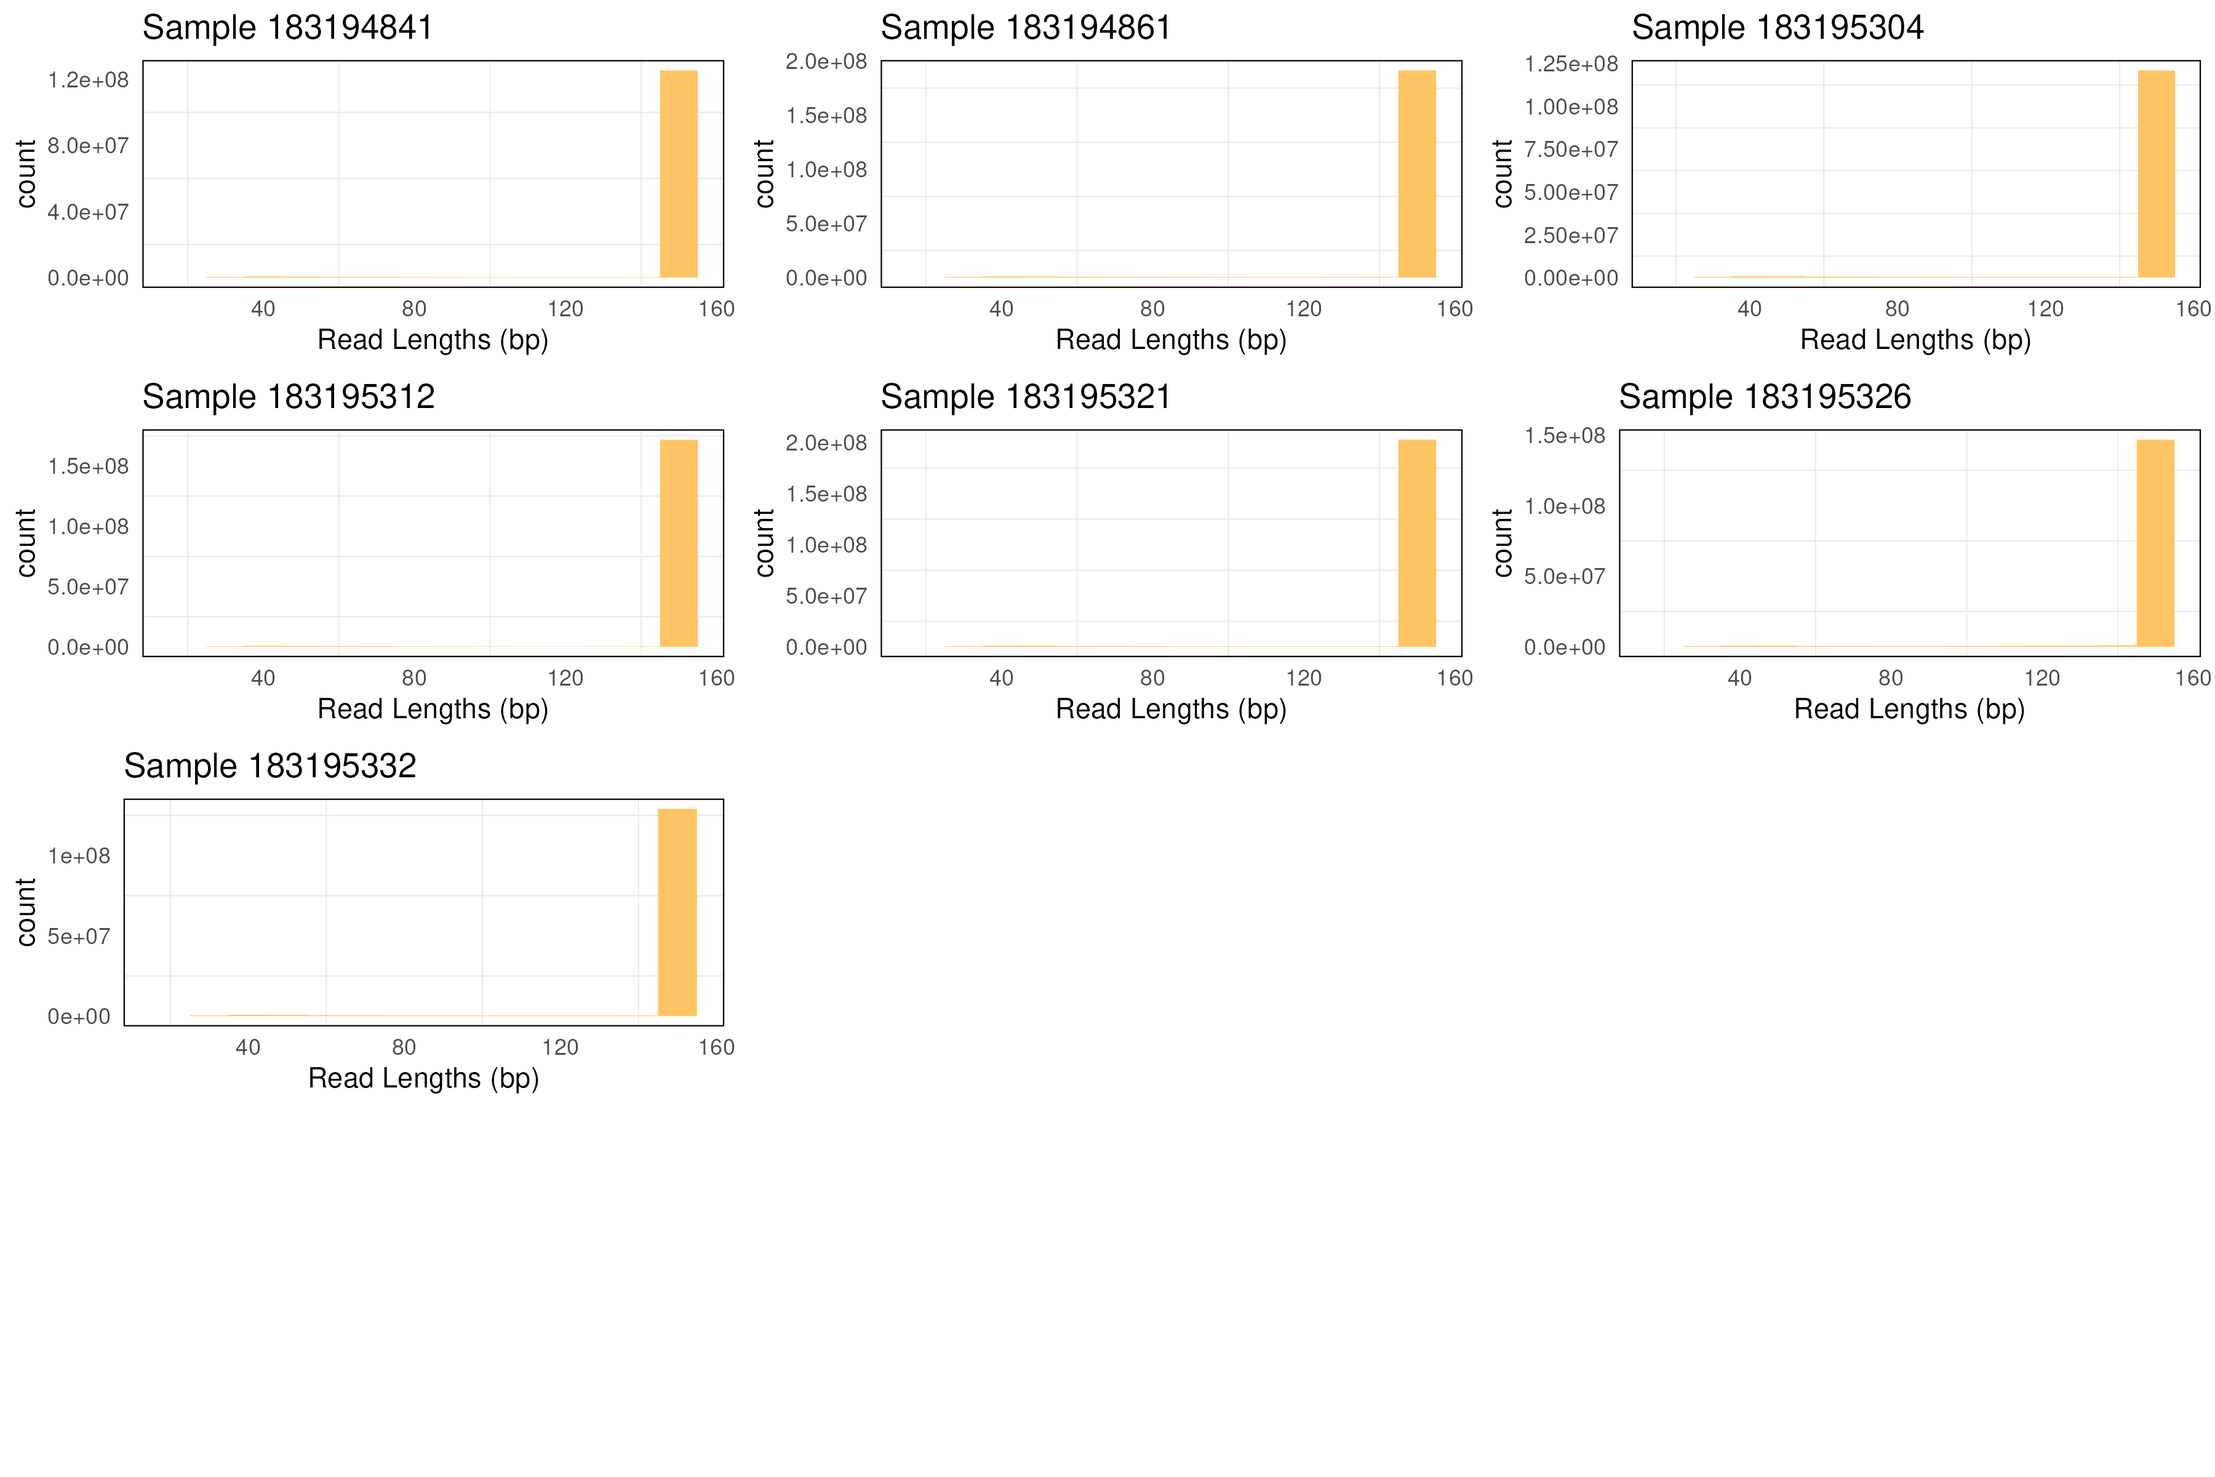
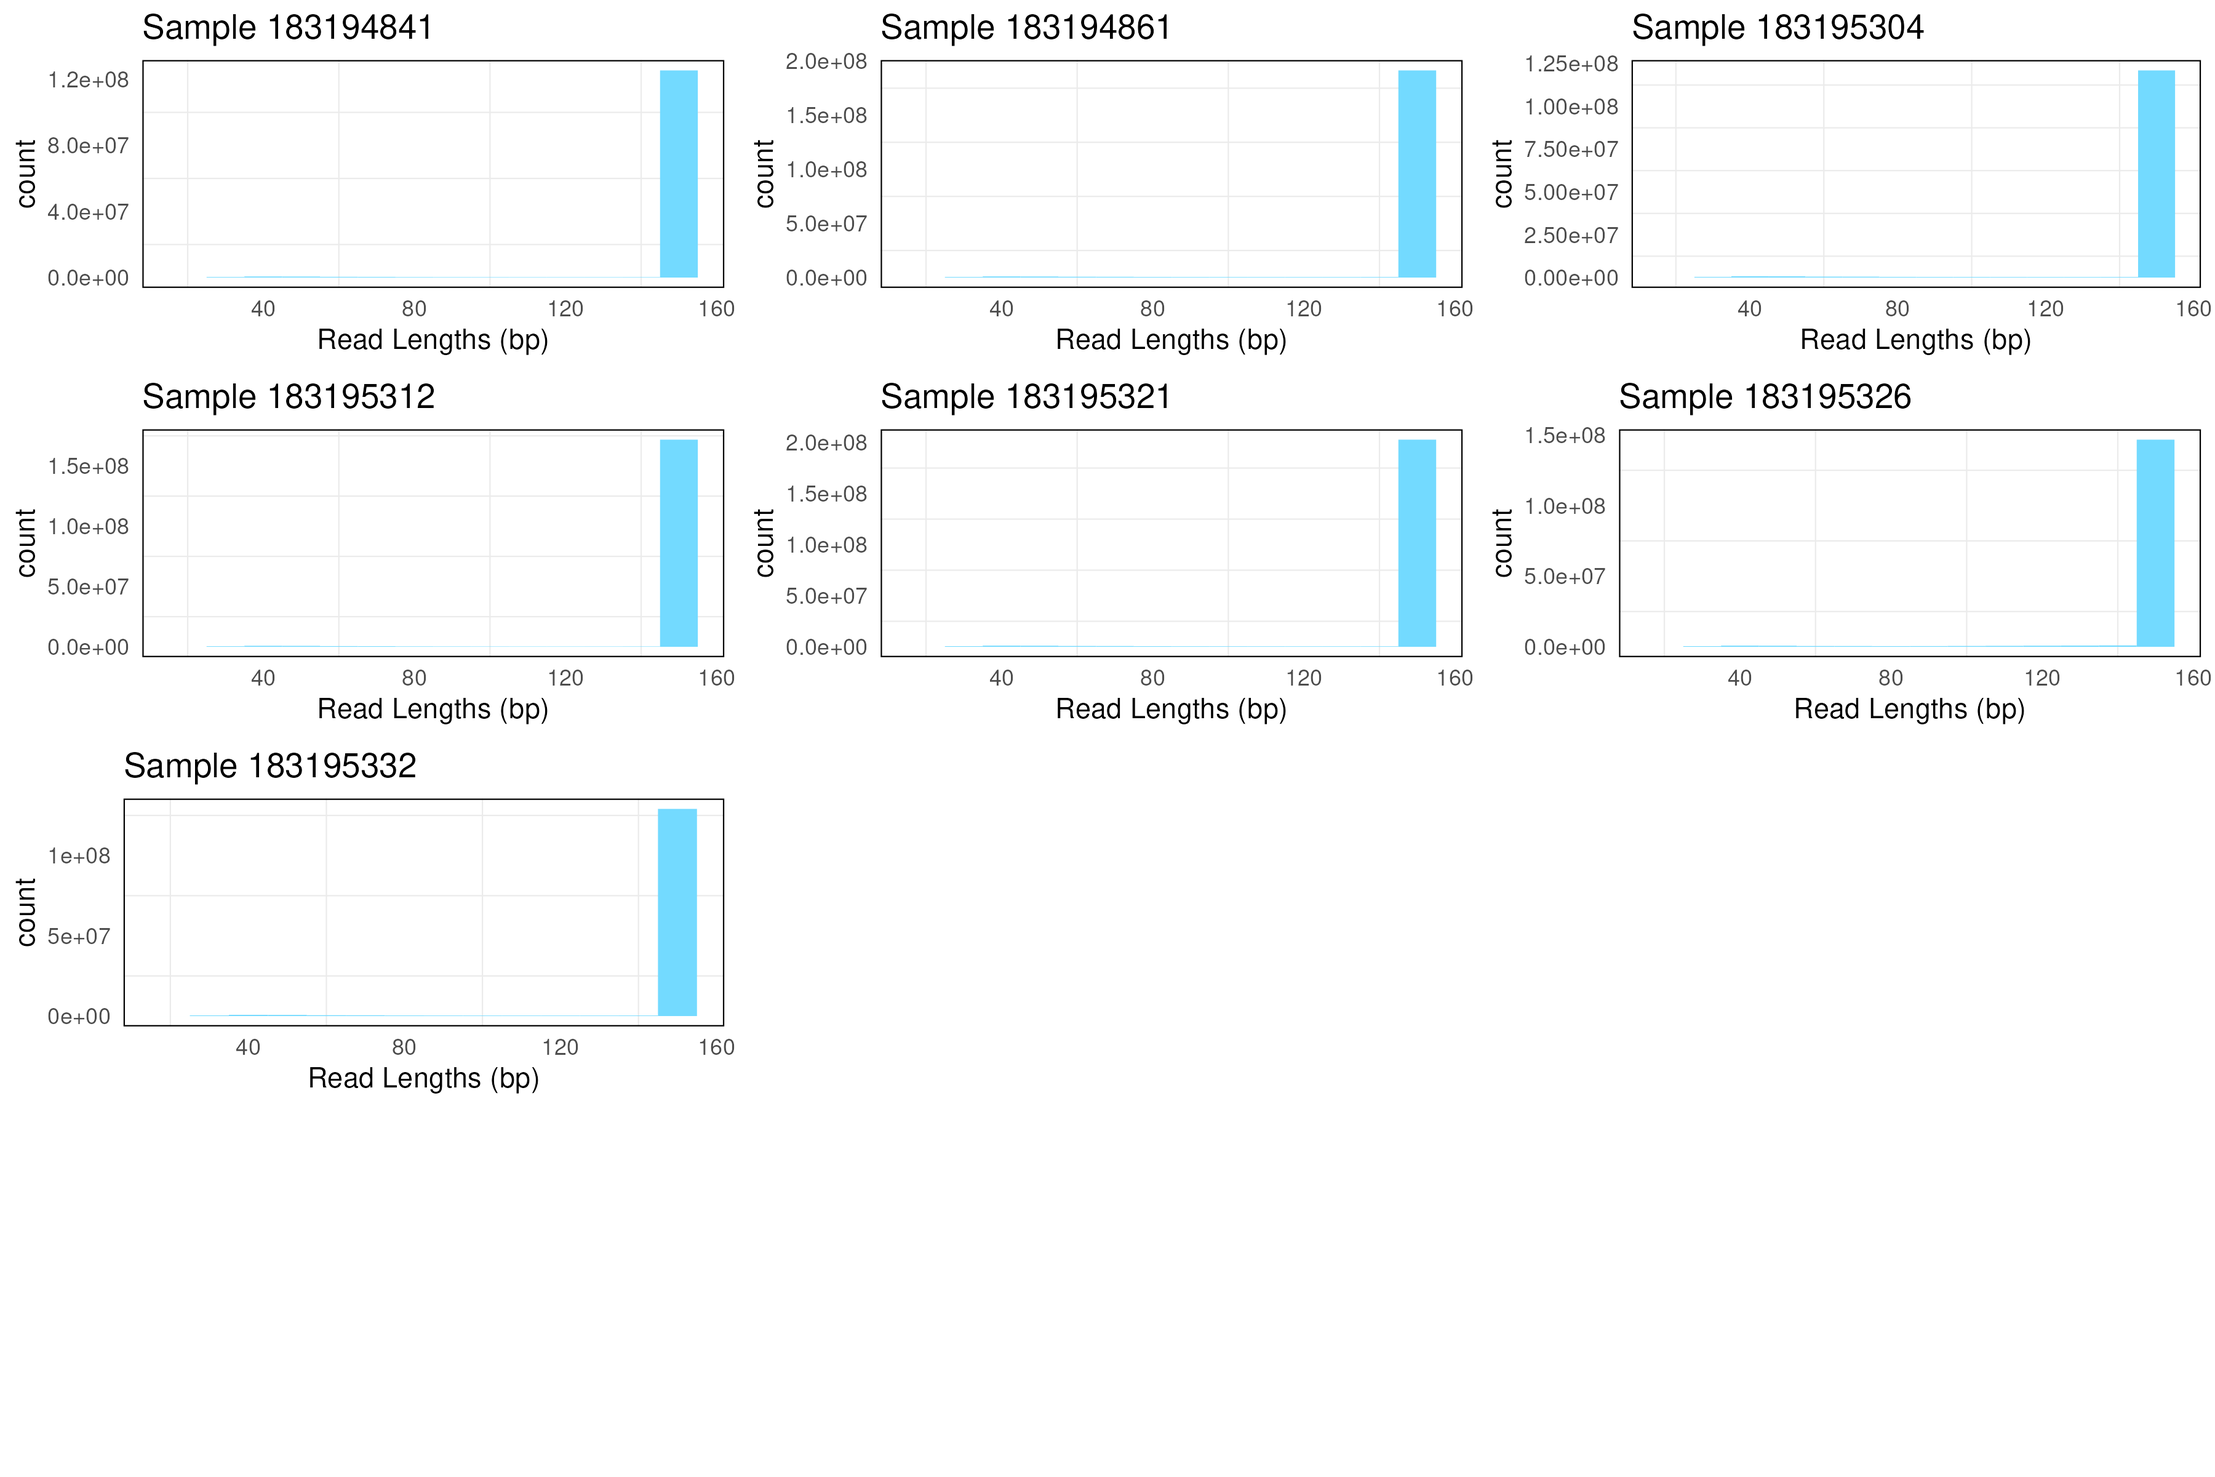
NA

diff --git a/scripts/demographic_modelling/gone/2_obtain_vcf.md b/scripts/demographic_modelling/gone/2_obtain_vcf.md
@@ -19,7 +19,7 @@ for i in `cat $scripts_folder/cKIWA_IDS.txt`; do
 #SBATCH --nodes=1
 #SBATCH --ntasks=1
 #SBATCH --cpus-per-task=4
-#SBATCH --mem=20GB
+#SBATCH --mem=100GB
 #SBATCH --time=12:00:00
 #SBATCH --account=open
 #SBATCH --job-name=hofi_alignments_${i}
@@ -49,7 +49,7 @@ vcf="/storage/home/abc6435/SzpiechLab/abc6435/KROH/data/gone/vcf_kirt/kirtlandii
 #samtools sort \$work_dir/${i}.bam -T \$work_dir/${i}_temp.bam -o \$work_dir/${i}_sorted.bam
 
 #Mark Duplicates
-java -Xmx20g -jar \$picard_tools_folder/picard.jar MarkDuplicates INPUT=\$work_dir/${i}_sorted.bam OUTPUT=\$work_dir/${i}_marked.bam METRICS_FILE=\$work_dir/${i}_metrics.txt MAX_FILE_HANDLES_FOR_READ_ENDS_MAP=8000
+java -Xmx100g -jar \$picard_tools_folder/picard.jar MarkDuplicates INPUT=\$work_dir/${i}_sorted.bam OUTPUT=\$work_dir/${i}_marked.bam METRICS_FILE=\$work_dir/${i}_metrics.txt MAX_FILE_HANDLES_FOR_READ_ENDS_MAP=8000
 
 #Index BAM Files
 samtools index \$work_dir/${i}_marked.bam \$work_dir/${i}_marked.bai
@@ -68,7 +68,7 @@ nano $scripts_folder/call_variants_gone.bash
 #SBATCH --nodes=1
 #SBATCH --ntasks=1
 #SBATCH --cpus-per-task=4
-#SBATCH --mem=10GB
+#SBATCH --mem=20GB
 #SBATCH --time=11:00:00
 #SBATCH --account=open
 #SBATCH --job-name=call_variants_gone
@@ -76,29 +76,24 @@ nano $scripts_folder/call_variants_gone.bash
 #SBATCH --output=/storage/home/abc6435/SzpiechLab/abc6435/KROH/job_err_output/%x.%j.out
 
 #Set Variables
-hofi_folder="/storage/home/abc6435/SzpiechLab/abc6435/KROH/data/hofi_ref"
+ref="/storage/home/abc6435/SzpiechLab/abc6435/KROH/data/hofi_ref/hofigenome.fna"
 work_dir="/storage/home/abc6435/SzpiechLab/abc6435/KROH/data/gone/vcf_kirt"
 vcf="/storage/home/abc6435/SzpiechLab/abc6435/KROH/data/gone/vcf_kirt/kirtlandii"
+bam_list="183194841_marked.bam 183194861_marked.bam 183195304_marked.bam 183195312_marked.bam 183195321_marked.bam 183195326_marked.bam 183195332_marked.bam"
 
 #Call Variants
-samtools mpileup -f \$hofi_folder/hofigenome.fna \$work_dir/*_marked.bam  | bcftools call -mv -Oz -o \$work_dir/kirtlandii.vcf.gz
+samtools mpileup -f $ref $bam_list > $work_dir/kirtlandii.mpileup
+bcftools call -mv --ploidy 2 -Oz -o $work_dir/kirtlandii.vcf.gz $work_dir/kirtlandii.mpileup
 
 #Filter Variants
-bcftools view -m2 -M2 -v snps \$vcf.vcf.gz -Oz -o \$vcf.biallelic.vcf.gz
-
-bcftools view -i 'QUAL>=50' \$vcf.biallelic.vcf.gz -Oz -o \$vcf.biallelic.qual.vcf.gz
-
-bcftools view -e 'SUM(FMT/DP)<95 | SUM(FMT/DP)>185' \$vcf.biallelic.qual.vcf.gz -Oz -o \$vcf.biallelic.qual.dpsites.vcf.gz
-
-bcftools filter \$vcf.biallelic.qual.dpsites.vcf.gz -e 'FMT/DP<6' -S . -Oz -o \$vcf.biallelic.qual.dpsites.dpgt.vcf.gz
-
-bcftools filter \$vcf.biallelic.qual.dpsites.dpgt.vcf.gz -e 'FMT/GQ<20' -S . -Oz -o \$vcf.biallelic.qual.dpsites.dpgt.gq.vcf.gz
-
-bcftools view -e 'GT="./."' \$vcf.biallelic.qual.dpsites.dpgt.gq.vcf.gz -Oz -o \$vcf.biallelic.qual.dpsites.dpgt.gq.nmiss.vcf.gz
-
-bcftools view -e 'COUNT(GT="het")>=6' \$vcf.biallelic.qual.dpsites.dpgt.gq.nmiss.vcf.gz -Oz -o \$vcf.biallelic.qual.dpsites.dpgt.gq.nmiss.exhet.vcf.gz
-
-bcftools index \$vcf.biallelic.qual.dpsites.dpgt.gq.nmiss.exhet.vcf.gz
+bcftools view -m2 -M2 -v snps $vcf.vcf.gz -Oz -o $vcf.biallelic.vcf.gz
+bcftools view -i 'QUAL>=50' $vcf.biallelic.vcf.gz -Oz -o $vcf.biallelic.qual.vcf.gz
+bcftools view -e 'SUM(FMT/DP)<95 | SUM(FMT/DP)>185' $vcf.biallelic.qual.vcf.gz -Oz -o $vcf.biallelic.qual.dpsites.vcf.gz
+bcftools filter $vcf.biallelic.qual.dpsites.vcf.gz -e 'FMT/DP<6' -S . -Oz -o $vcf.biallelic.qual.dpsites.dpgt.vcf.gz
+bcftools filter $vcf.biallelic.qual.dpsites.dpgt.vcf.gz -e 'FMT/GQ<20' -S . -Oz -o $vcf.biallelic.qual.dpsites.dpgt.gq.vcf.gz
+bcftools view -e 'GT="./."' $vcf.biallelic.qual.dpsites.dpgt.gq.vcf.gz -Oz -o $vcf.biallelic.qual.dpsites.dpgt.gq.nmiss.vcf.gz
+bcftools view -e 'COUNT(GT="het")>=6' $vcf.biallelic.qual.dpsites.dpgt.gq.nmiss.vcf.gz -Oz -o \$vcf.biallelic.qual.dpsites.dpgt.gq.nmiss.exhet.vcf.gz
+bcftools index $vcf.biallelic.qual.dpsites.dpgt.gq.nmiss.exhet.vcf.gz
 ```
 
 ## Clean VCF 

diff --git a/scripts/plot/depth_h.md b/scripts/plot/depth_h.md
@@ -52,7 +52,7 @@ chr_order <- c("chr1","chr1a","chr2","chr3","chr4","chr4a","chr5","chr6","chr7",
 
 avg_depth_29779$CHR <- factor(avg_depth_29779$CHR, levels = chr_order)
 DP_29779 <-  ggplot(avg_depth_29779, aes(x = CHR, y = DEPTH)) +
-  geom_bar(stat = "identity", fill = "#008182") +
+  geom_bar(stat = "identity", fill = "#AF2C8B") +
   labs(x = "",
        y = "Average Depth") +
  ggtitle(paste("Sample 29779")) + 
@@ -68,7 +68,7 @@ DP_29779 <-  ggplot(avg_depth_29779, aes(x = CHR, y = DEPTH)) +
 
 avg_depth_383194$CHR <- factor(avg_depth_383194$CHR, levels = chr_order)
 DP_383194 <-  ggplot(avg_depth_383194, aes(x = CHR, y = DEPTH)) +
-  geom_bar(stat = "identity", fill = "#008182") +
+  geom_bar(stat = "identity", fill = "#AF2C8B") +
   labs(x = "",
        y = "Average Depth") +
  ggtitle(paste("Sample 383194")) + 
@@ -84,7 +84,7 @@ DP_383194 <-  ggplot(avg_depth_383194, aes(x = CHR, y = DEPTH)) +
 
 avg_depth_383202$CHR <- factor(avg_depth_383202$CHR, levels = chr_order)
 DP_383202 <-  ggplot(avg_depth_383202, aes(x = CHR, y = DEPTH)) +
-  geom_bar(stat = "identity", fill = "#008182") +
+  geom_bar(stat = "identity", fill = "#AF2C8B") +
   labs(x = "",
        y = "Average Depth") +
  ggtitle(paste("Sample 383202")) + 
@@ -100,7 +100,7 @@ DP_383202 <-  ggplot(avg_depth_383202, aes(x = CHR, y = DEPTH)) +
 
 avg_depth_383205$CHR <- factor(avg_depth_383205$CHR, levels = chr_order)
 DP_383205 <-  ggplot(avg_depth_383205, aes(x = CHR, y = DEPTH)) +
-  geom_bar(stat = "identity", fill = "#008182") +
+  geom_bar(stat = "identity", fill = "#AF2C8B") +
   labs(x = "",
        y = "Average Depth") +
  ggtitle(paste("Sample 383205")) + 
@@ -116,7 +116,7 @@ DP_383205 <-  ggplot(avg_depth_383205, aes(x = CHR, y = DEPTH)) +
 
 avg_depth_507264$CHR <- factor(avg_depth_507264$CHR, levels = chr_order)
 DP_507264 <-  ggplot(avg_depth_507264, aes(x = CHR, y = DEPTH)) +
-  geom_bar(stat = "identity", fill = "#008182") +
+  geom_bar(stat = "identity", fill = "#AF2C8B") +
   labs(x = "",
        y = "Average Depth") +
  ggtitle(paste("Sample 507264")) + 
@@ -132,7 +132,7 @@ DP_507264 <-  ggplot(avg_depth_507264, aes(x = CHR, y = DEPTH)) +
 
 avg_depth_507265$CHR <- factor(avg_depth_507265$CHR, levels = chr_order)
 DP_507265 <-  ggplot(avg_depth_507265, aes(x = CHR, y = DEPTH)) +
-  geom_bar(stat = "identity", fill = "#008182") +
+  geom_bar(stat = "identity", fill = "#AF2C8B") +
   labs(x = "",
        y = "Average Depth") +
  ggtitle(paste("Sample 507265")) + 
@@ -148,7 +148,7 @@ DP_507265 <-  ggplot(avg_depth_507265, aes(x = CHR, y = DEPTH)) +
 
 avg_depth_759877$CHR <- factor(avg_depth_759877$CHR, levels = chr_order)
 DP_759877 <-  ggplot(avg_depth_759877, aes(x = CHR, y = DEPTH)) +
-  geom_bar(stat = "identity", fill = "#008182") +
+  geom_bar(stat = "identity", fill = "#AF2C8B") +
   labs(x = "",
        y = "Average Depth") +
  ggtitle(paste("Sample 759877")) + 

diff --git a/scripts/plot/depth_c.md b/scripts/plot/depth_c.md
@@ -51,7 +51,7 @@ chr_order <- c("chr1","chr1a","chr2","chr3","chr4","chr4a","chr5","chr6","chr7",
 
 avg_depth_183194841$CHR <- factor(avg_depth_183194841$CHR, levels = chr_order)
 DP_183194841 <-  ggplot(avg_depth_183194841, aes(x = CHR, y = DEPTH)) +
-  geom_bar(stat = "identity", fill = "#FFC464") +
+  geom_bar(stat = "identity", fill = "#73DAFF") +
   labs(x = "",
        y = "Average Depth") +
   ggtitle(paste("Sample 183194841")) + 
@@ -67,7 +67,7 @@ theme(
 
 avg_depth_183195332$CHR <- factor(avg_depth_183195332$CHR, levels = chr_order)
 DP_183195332 <-  ggplot(avg_depth_183195332, aes(x = CHR, y = DEPTH)) +
-  geom_bar(stat = "identity", fill = "#FFC464") +
+  geom_bar(stat = "identity", fill = "#73DAFF") +
   labs(x = "",
        y = "Average Depth") +
   ggtitle(paste("Sample 183195332")) + 
@@ -83,7 +83,7 @@ theme(
 
 avg_depth_183194861$CHR <- factor(avg_depth_183194861$CHR, levels = chr_order)
 DP_183194861 <-  ggplot(avg_depth_183194861, aes(x = CHR, y = DEPTH)) +
-  geom_bar(stat = "identity", fill = "#FFC464") +
+  geom_bar(stat = "identity", fill = "#73DAFF") +
   labs(x = "",
        y = "Average Depth") +
   ggtitle(paste("Sample 183194861")) + 
@@ -99,7 +99,7 @@ theme(
 
 avg_depth_183195321$CHR <- factor(avg_depth_183195321$CHR, levels = chr_order)
 DP_183195321 <-  ggplot(avg_depth_183195321, aes(x = CHR, y = DEPTH)) +
-  geom_bar(stat = "identity", fill = "#FFC464") +
+  geom_bar(stat = "identity", fill = "#73DAFF") +
   labs(x = "",
        y = "Average Depth") +
   ggtitle(paste("Sample 183195321")) + 
@@ -115,7 +115,7 @@ theme(
 
 avg_depth_183195304$CHR <- factor(avg_depth_183195304$CHR, levels = chr_order)
 DP_183195304 <-  ggplot(avg_depth_183195304, aes(x = CHR, y = DEPTH)) +
-  geom_bar(stat = "identity", fill = "#FFC464") +
+  geom_bar(stat = "identity", fill = "#73DAFF") +
   labs(x = "",
        y = "Average Depth") +
   ggtitle(paste("Sample 183195304")) + 
@@ -131,7 +131,7 @@ theme(
 
 avg_depth_183195326$CHR <- factor(avg_depth_183195326$CHR, levels = chr_order)
 DP_183195326 <-  ggplot(avg_depth_183195326, aes(x = CHR, y = DEPTH)) +
-  geom_bar(stat = "identity", fill = "#FFC464") +
+  geom_bar(stat = "identity", fill = "#73DAFF") +
   labs(x = "",
        y = "Average Depth") +
   ggtitle(paste("Sample 183195326")) + 
@@ -147,7 +147,7 @@ theme(
 
 avg_depth_183195312$CHR <- factor(avg_depth_183195312$CHR, levels = chr_order)
 DP_183195312 <-  ggplot(avg_depth_183195312, aes(x = CHR, y = DEPTH)) +
-  geom_bar(stat = "identity", fill = "#FFC464") +
+  geom_bar(stat = "identity", fill = "#73DAFF") +
   labs(x = "",
        y = "Average Depth") +
   ggtitle(paste("Sample 183195312")) + 

diff --git a/scripts/plot/readlength_c.md b/scripts/plot/readlength_c.md
@@ -39,7 +39,7 @@ names(readlengths) <- paste0("readlength_", ids)
 
 # PLOT DATA
 RL_183194841 <- ggplot(readlengths$readlength_183194841, aes(x = V1)) +
-  geom_histogram(binwidth = 10, fill = "#FFC464") +
+  geom_histogram(binwidth = 10, fill = "#73DAFF") +
   xlab("Read Lengths (bp)") +
   ggtitle(paste("Sample 183194841")) + 
  theme_minimal() +
@@ -50,7 +50,7 @@ RL_183194841 <- ggplot(readlengths$readlength_183194841, aes(x = V1)) +
   )
 
 RL_183195312 <- ggplot(readlengths$readlength_183195312, aes(x = V1)) +
-  geom_histogram(binwidth = 10, fill = "#FFC464") +
+  geom_histogram(binwidth = 10, fill = "#73DAFF") +
   xlab("Read Lengths (bp)") +
   ggtitle(paste("Sample 183195312")) + 
   theme_minimal() +
@@ -61,7 +61,7 @@ RL_183195312 <- ggplot(readlengths$readlength_183195312, aes(x = V1)) +
   )
 
 RL_183195332 <- ggplot(readlengths$readlength_183195332, aes(x = V1)) +
-  geom_histogram(binwidth = 10, fill = "#FFC464") +
+  geom_histogram(binwidth = 10, fill = "#73DAFF") +
   xlab("Read Lengths (bp)") +
   ggtitle(paste("Sample 183195332")) + 
   theme_minimal() + 
@@ -72,7 +72,7 @@ RL_183195332 <- ggplot(readlengths$readlength_183195332, aes(x = V1)) +
   )
 
 RL_183194861 <- ggplot(readlengths$readlength_183194861, aes(x = V1)) +
-  geom_histogram(binwidth = 10, fill = "#FFC464") +
+  geom_histogram(binwidth = 10, fill = "#73DAFF") +
   xlab("Read Lengths (bp)") +
   ggtitle(paste("Sample 183194861")) + 
   theme_minimal() +
@@ -83,7 +83,7 @@ RL_183194861 <- ggplot(readlengths$readlength_183194861, aes(x = V1)) +
   )
 
 RL_183195321 <- ggplot(readlengths$readlength_183195321, aes(x = V1)) +
-  geom_histogram(binwidth = 10, fill = "#FFC464") +
+  geom_histogram(binwidth = 10, fill = "#73DAFF") +
   xlab("Read Lengths (bp)") +
   ggtitle(paste("Sample 183195321")) + 
   theme_minimal() +
@@ -94,7 +94,7 @@ RL_183195321 <- ggplot(readlengths$readlength_183195321, aes(x = V1)) +
   )
 
 RL_183195304 <- ggplot(readlengths$readlength_183195304, aes(x = V1)) +
-  geom_histogram(binwidth = 10, fill = "#FFC464") +
+  geom_histogram(binwidth = 10, fill = "#73DAFF") +
   xlab("Read Lengths (bp)") +
   ggtitle(paste("Sample 183195304")) + 
   theme_minimal() +
@@ -105,7 +105,7 @@ RL_183195304 <- ggplot(readlengths$readlength_183195304, aes(x = V1)) +
   )
 
 RL_183195326 <- ggplot(readlengths$readlength_183195326, aes(x = V1)) +
-  geom_histogram(binwidth = 10, fill = "#FFC464") +
+  geom_histogram(binwidth = 10, fill = "#73DAFF") +
   xlab("Read Lengths (bp)") +
   ggtitle(paste("Sample 183195326")) + 
   theme_minimal() +

diff --git a/scripts/plot/readlength_h.md b/scripts/plot/readlength_h.md
@@ -39,7 +39,7 @@ names(readlengths) <- paste0("readlength_", ids)
 
 # PLOT DATA
 RL_29779 <- ggplot(readlengths$readlength_29779, aes(x = V1)) +
-  geom_histogram(binwidth = 10, fill = "#008182") +
+  geom_histogram(binwidth = 10, fill = "#AF2C8B") +
   xlab("Read Lengths (bp)") +
   ggtitle(paste("Sample 29779")) + 
  theme_minimal() +
@@ -50,7 +50,7 @@ RL_29779 <- ggplot(readlengths$readlength_29779, aes(x = V1)) +
   )
 
 RL_383194 <- ggplot(readlengths$readlength_383194, aes(x = V1)) +
-  geom_histogram(binwidth = 10, fill = "#008182") +
+  geom_histogram(binwidth = 10, fill = "#AF2C8B") +
   xlab("Read Lengths (bp)") +
   ggtitle(paste("Sample 383194")) + 
   theme_minimal() +
@@ -61,7 +61,7 @@ RL_383194 <- ggplot(readlengths$readlength_383194, aes(x = V1)) +
   )
 
 RL_383202 <- ggplot(readlengths$readlength_383202, aes(x = V1)) +
-  geom_histogram(binwidth = 10, fill = "#008182") +
+  geom_histogram(binwidth = 10, fill = "#AF2C8B") +
   xlab("Read Lengths (bp)") +
   ggtitle(paste("Sample 383202")) + 
   theme_minimal() + 
@@ -72,7 +72,7 @@ RL_383202 <- ggplot(readlengths$readlength_383202, aes(x = V1)) +
   )
 
 RL_383205 <- ggplot(readlengths$readlength_383205, aes(x = V1)) +
-  geom_histogram(binwidth = 10, fill = "#008182") +
+  geom_histogram(binwidth = 10, fill = "#AF2C8B") +
   xlab("Read Lengths (bp)") +
   ggtitle(paste("Sample 383205")) + 
   theme_minimal() +
@@ -83,7 +83,7 @@ RL_383205 <- ggplot(readlengths$readlength_383205, aes(x = V1)) +
   )
 
 RL_507264 <- ggplot(readlengths$readlength_507264, aes(x = V1)) +
-  geom_histogram(binwidth = 10, fill = "#008182") +
+  geom_histogram(binwidth = 10, fill = "#AF2C8B") +
   xlab("Read Lengths (bp)") +
   ggtitle(paste("Sample 507264")) + 
   theme_minimal() +
@@ -94,7 +94,7 @@ RL_507264 <- ggplot(readlengths$readlength_507264, aes(x = V1)) +
   )
 
 RL_507265 <- ggplot(readlengths$readlength_507265, aes(x = V1)) +
-  geom_histogram(binwidth = 10, fill = "#008182") +
+  geom_histogram(binwidth = 10, fill = "#AF2C8B") +
   xlab("Read Lengths (bp)") +
   ggtitle(paste("Sample 507265")) + 
   theme_minimal() +
@@ -105,7 +105,7 @@ RL_507265 <- ggplot(readlengths$readlength_507265, aes(x = V1)) +
   )
 
 RL_759877 <- ggplot(readlengths$readlength_759877, aes(x = V1)) +
-  geom_histogram(binwidth = 10, fill = "#008182") +
+  geom_histogram(binwidth = 10, fill = "#AF2C8B") +
   xlab("Read Lengths (bp)") +
   ggtitle(paste("Sample 759877")) + 
   theme_minimal() +
